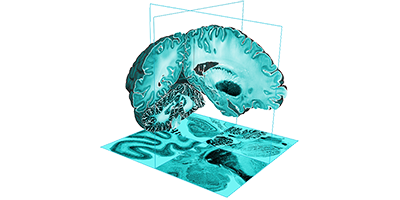
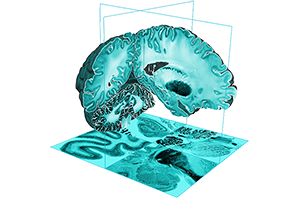
#176 revised image aspect ratio

Changed region(s): [[0.15, 0.0, 0.84, 0.99]]

diff --git a/maps-and-models.html b/maps-and-models.html
@@ -141,7 +141,7 @@
         <a href="https://kg.ebrains.eu/search/instances/Project/af8d3519-9561-4060-8da9-2de1bb966a81?group=curated" target="_blank"><button class="float-right">Download via ebrains</button></a>
       </div>
       <div class="namecard fullcard">
-        <img src="images/bigbrain.png" class="card-image-square" data-mh="card-image">
+        <img src="images/bigbrain-wide.png" class="card-image-square" data-mh="card-image">
         <div class="tool-name" data-mh="title">How to Cite</div>
         <div class="tool-description" data-mh="description">When referring to the BigBrain Project or using the data, please cite the original Science 2013 publication:</div>
         <p>Amunts K, Lepage C, Borgeat L, Mohlberg H, Dickscheid T, Rousseau M-É, Bludau S, Bazin PL, Lewis LB, Oros-Peusquens AM, Shah NJ, Lippert T, Zilles K, Evans AC. BigBrain: An ultrahigh-resolution 3D human brain model. Science. 2013; 340(6139):1472-1475. doi: 10.1126/science.1235381. PMID: 23788795.</p>

diff --git a/about.html b/about.html
@@ -68,7 +68,7 @@
         <li class="nav-item"><a href="#!" class="active">About</a>
           <ul class="nav-dropdown">
             <li><a href="about.html" class="active">About Us</a></li>
-            <li><a href="about.html#FAQ" class="active">FAQ</a></li>
+            <li><a href="about.html#FAQ">FAQ</a></li>
             <li><a href="references.html">References</a></li>
             <li><a href="contact.html">Contact</a></li>
           </ul>
